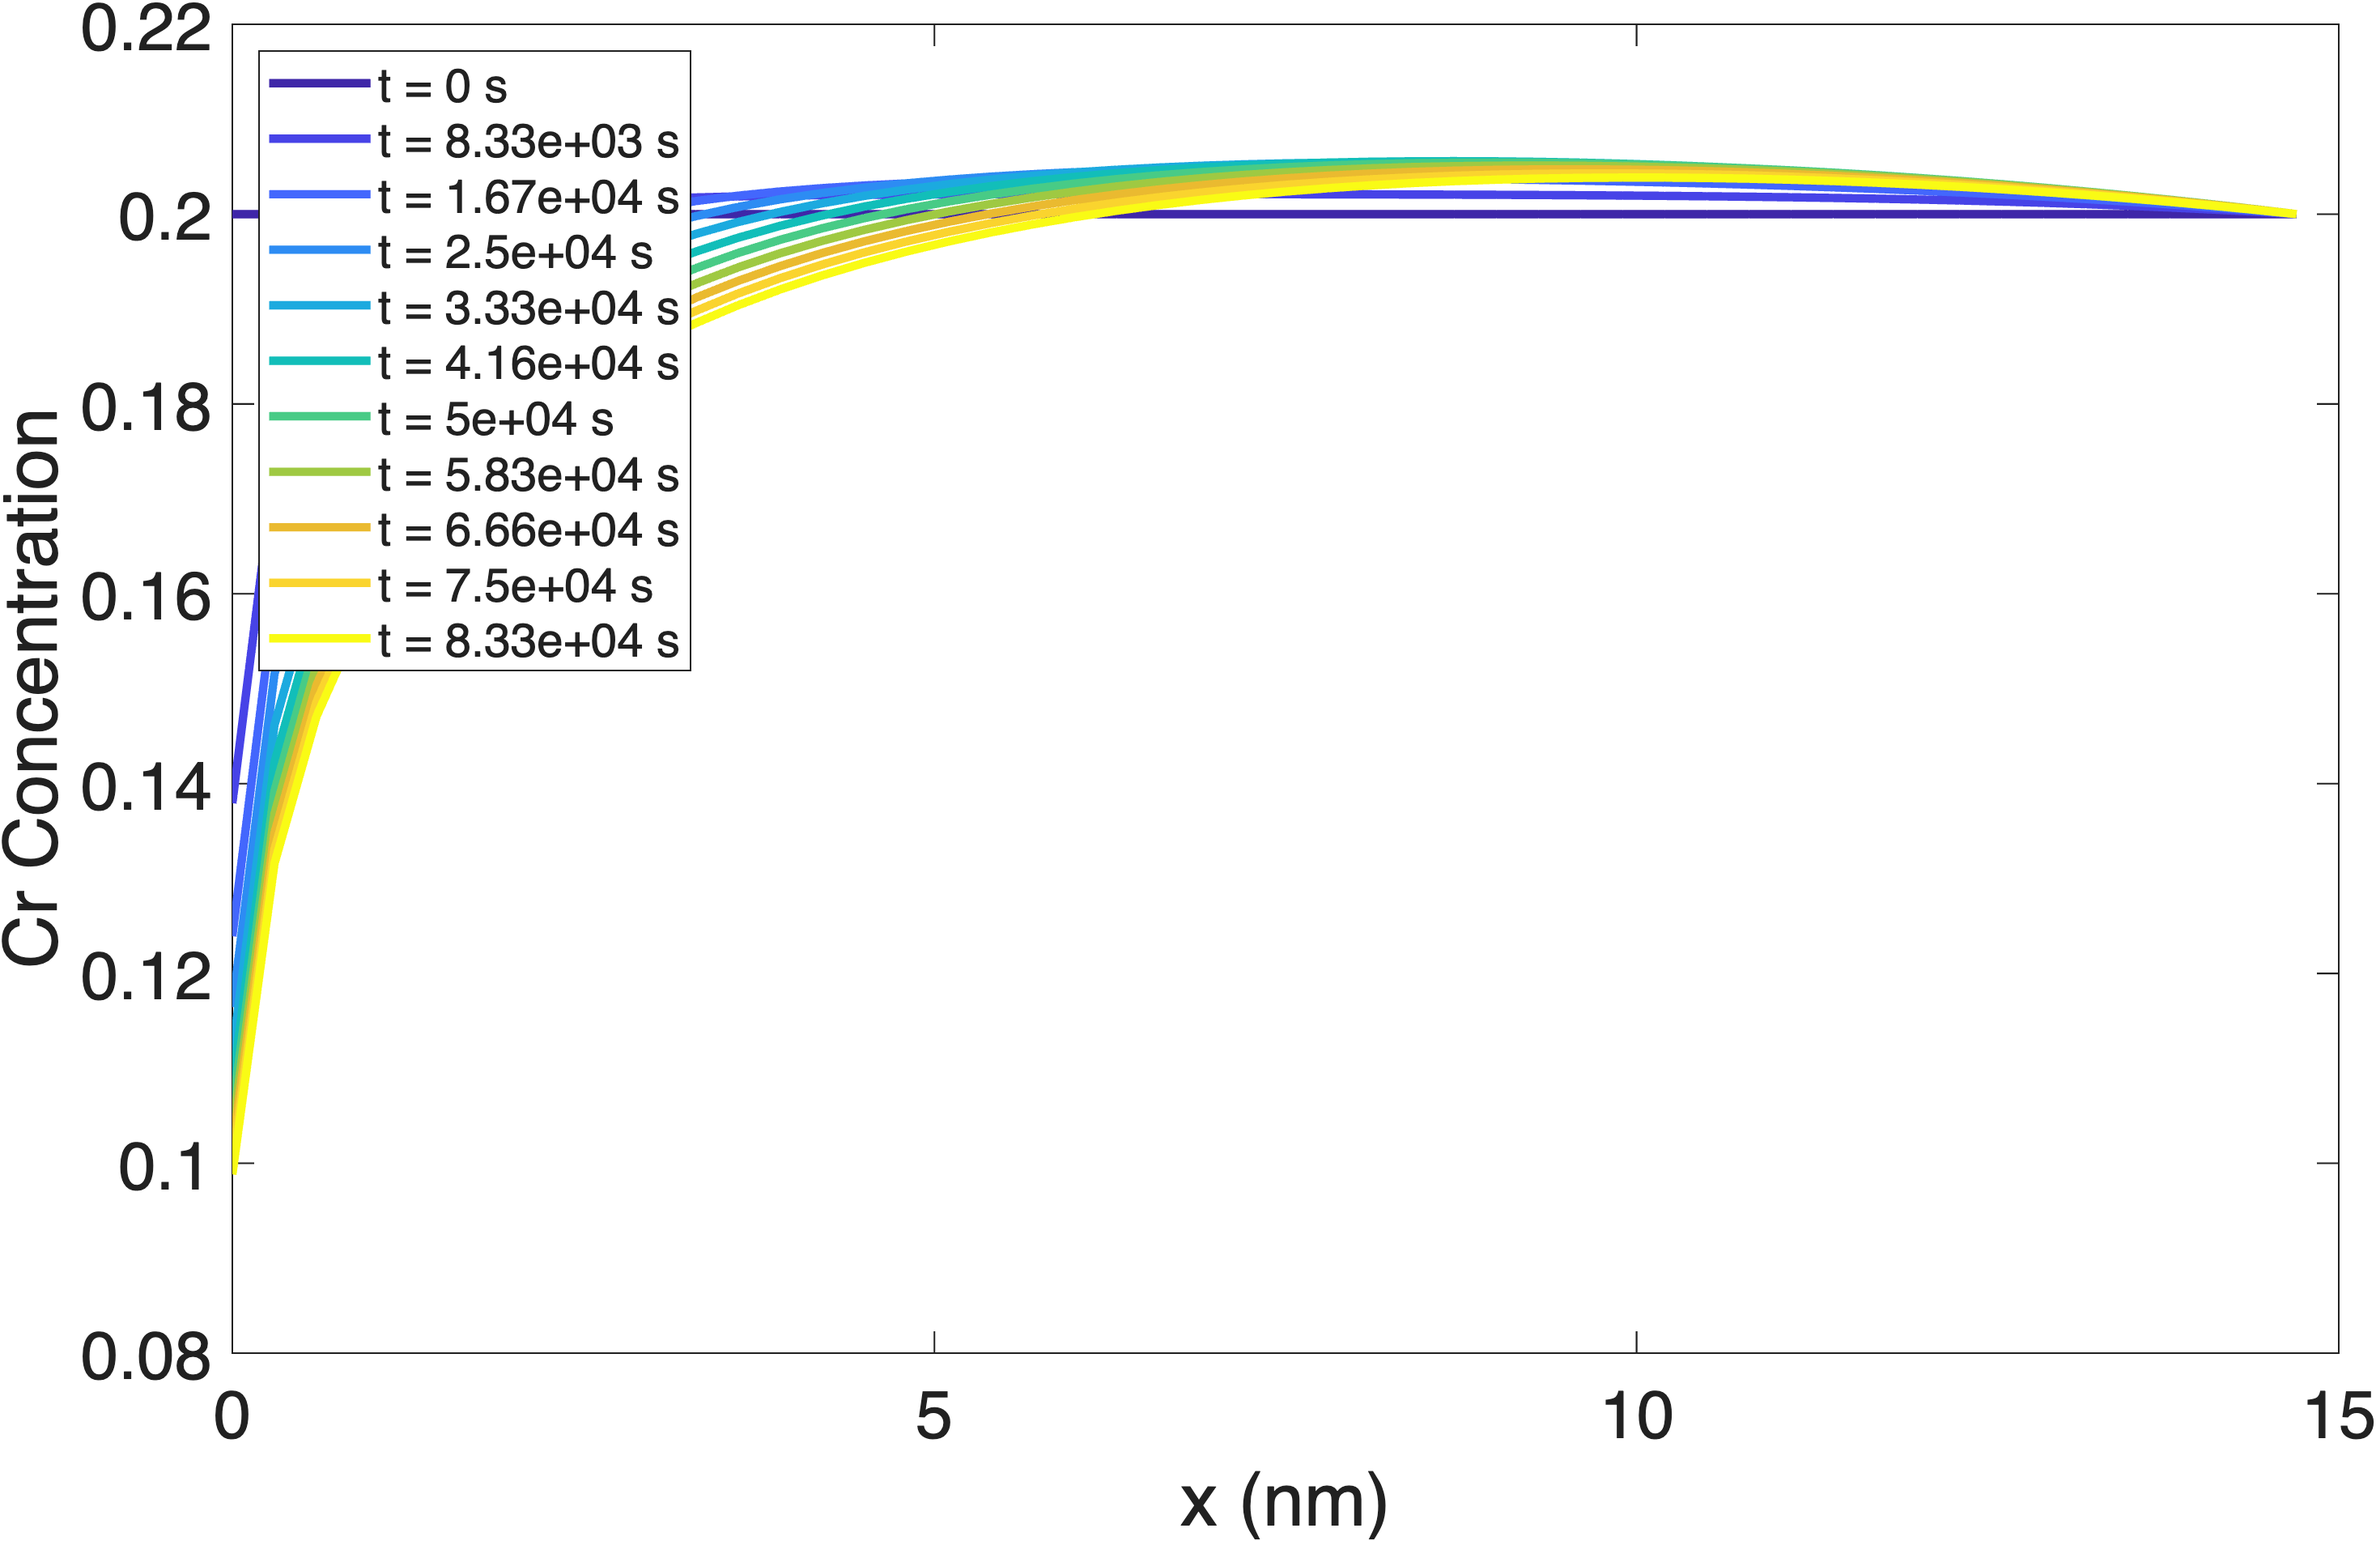
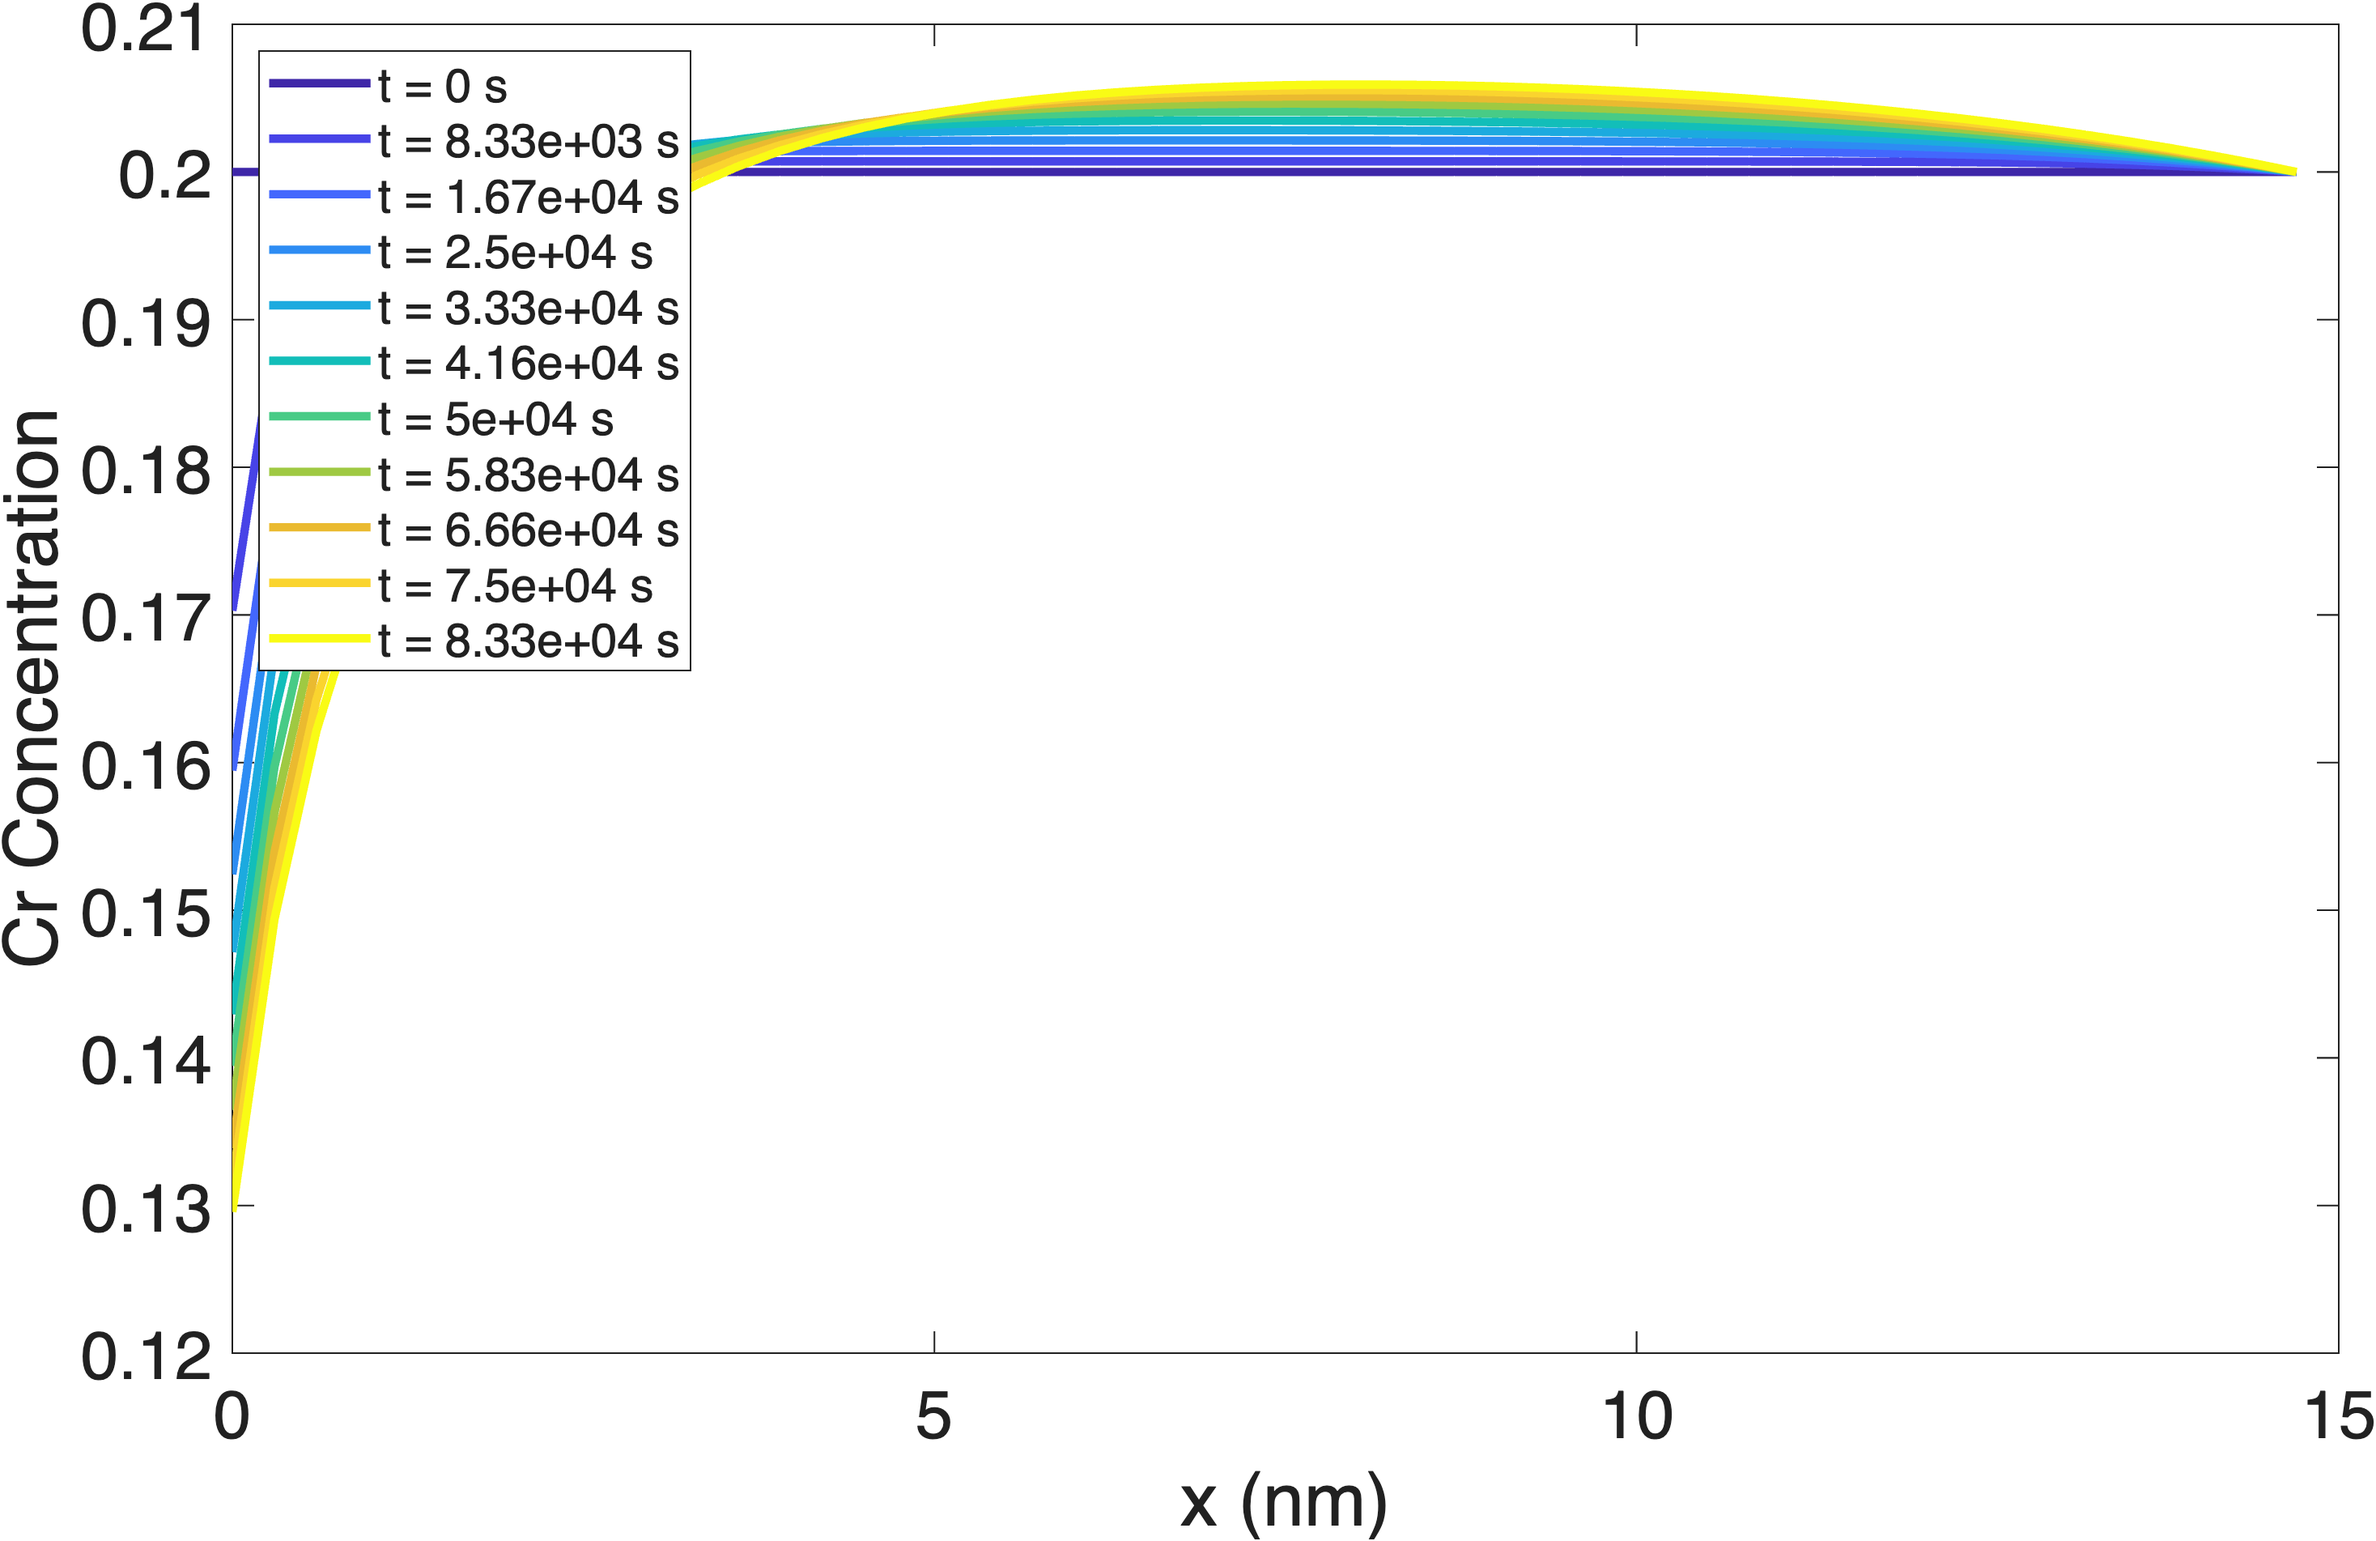
better epsilon and f0

diff --git a/rhs_aks.m b/rhs_aks.m
@@ -80,8 +80,8 @@ dCr = dsolutedt(J_Cr_x, J_Cr_y, p.dx, p.dy,J_r_Cr);
 dFe = dsolutedt(J_Fe_x, J_Fe_y, p.dx, p.dy,J_r_Fe);
 dNi = dsolutedt(J_Ni_x, J_Ni_y, p.dx, p.dy,J_r_Ni);
 dSi = dsolutedt(J_Si_x, J_Si_y, p.dx, p.dy,J_r_Si);
-dV  = dVdt (J_V_x,J_V_y,p.dx,  p.dy,I, V,   p.dose_rate, p.recomb_rate,lattice_velocity_x);
-dI  =  dIdt (J_I_x,J_I_y,p.dx,  p.dy,I, V,   p.dose_rate, p.recomb_rate,lattice_velocity_x);
+dV  = dVdt (J_V_x,J_V_y,p.dx,  p.dy,I, V,   p.eff*p.dose_rate, p.recomb_rate,lattice_velocity_x);
+dI  =  dIdt (J_I_x,J_I_y,p.dx,  p.dy,I, V,   p.eff*p.dose_rate, p.recomb_rate,lattice_velocity_x);
 % Dirichlet 导数置零
 dV(:,1)    = 0;
 dI(:,1)      = 0;

diff --git a/main.m b/main.m
@@ -14,19 +14,20 @@ p.V_DBC  = 1e-12;
 p.I_init = 1e-12;
 p.I_DBC  = 1e-12;
 
-DCrV = 7.5e6;
-DFeV = 6e6;
+DCrV = 1e7;
+DFeV = 7e6;
 DNiV = 5e6;
-DSiV = 8e6;
+DSiV = 9e6;
 p.DV = [DCrV, DFeV, DNiV,DSiV];
 DCrI = 2e6;
 DFeI = 2e6;
 DNiI = 2e6;
-DSiI = 6e6;
+DSiI = 1e7;
 p.DI = [DCrI,DFeI,DNiI,DSiI];
-p.f0V = 0.6;
-p.f0I = 0.6;
+p.f0V = 0.78;
+p.f0I = 0.44;
 p.dose_rate   = 6e-6;
+p.eff = 0.2;
 p.recomb_rate = 1e4;
 p.Ks = 0.0;
 p.Cr_init = 0.2;   p.Cr_DCB = 0.2;
